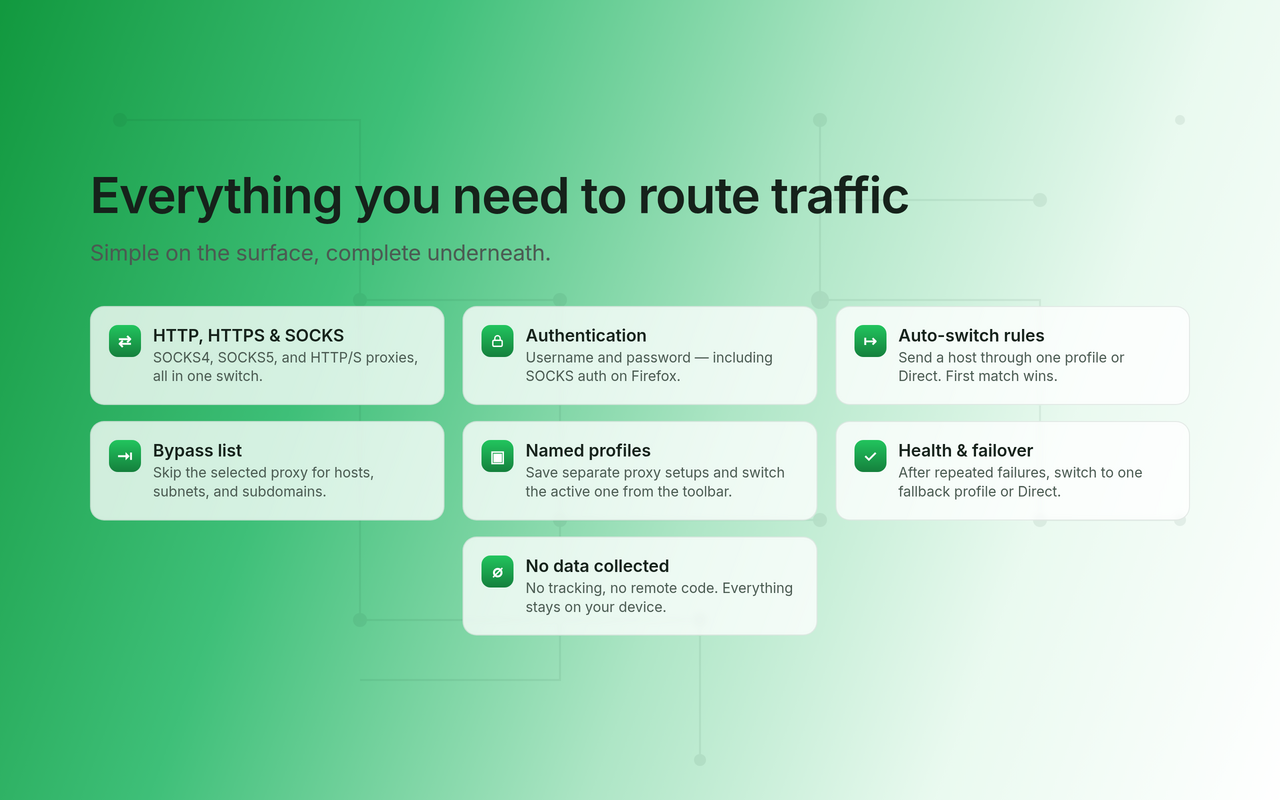
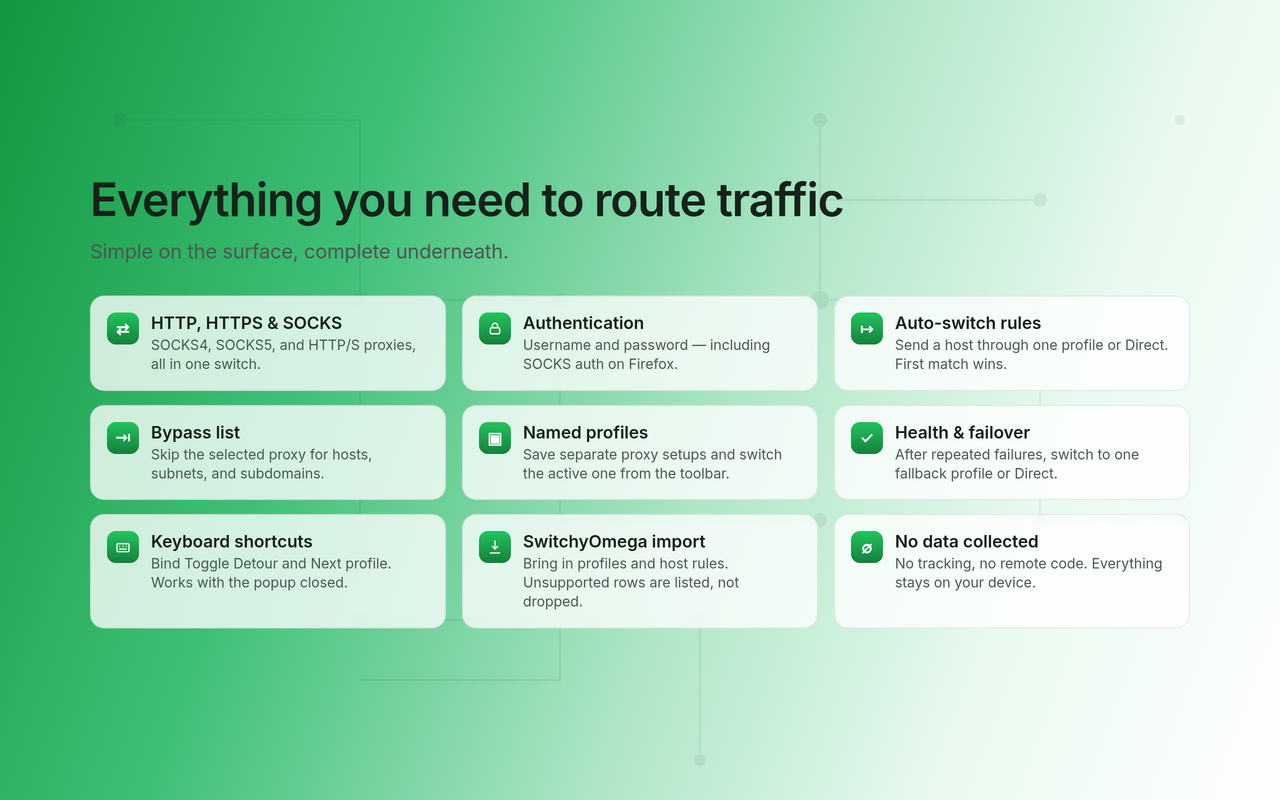
docs(store): listing and screenshots for 1.7.0 (#61)
* docs(store): describe 1.7.0 shortcuts and SwitchyOmega import

Update listing copy and the features screenshot template so store
dashboards can mention keyboard shortcuts and SwitchyOmega import.
Leave the 129-character CWS short summary unchanged.

* docs(store): regenerate 1.7.0 features screenshot PNGs

Render the updated 3x3 features grid to opaque 24-bit PNG (1280x800,
no alpha) for CWS and copy the same file to AMO.

---------

Changed region(s): [[0.0625, 0.2188, 0.9062, 0.8125]]

diff --git a/store/assets/screenshot-3-features-1280x800.html b/store/assets/screenshot-3-features-1280x800.html
@@ -13,22 +13,22 @@
         justify-content: center;
         padding: 0 90px;
       }
-      .cap .big { font-size: 50px; letter-spacing: -0.02em; display: block; }
-      .cap .lead { font-size: 22px; margin-top: 14px; }
+      .cap .big { font-size: 46px; letter-spacing: -0.02em; display: block; }
+      .cap .lead { font-size: 20px; margin-top: 12px; }
       .grid {
         position: relative;
         z-index: 2;
-        margin-top: 40px;
+        margin-top: 32px;
         display: grid;
         grid-template-columns: 1fr 1fr 1fr;
-        gap: 16px 18px;
+        gap: 14px 16px;
         max-width: 1100px;
       }
       .feat {
         display: flex;
         align-items: flex-start;
         gap: 12px;
-        padding: 18px 18px;
+        padding: 16px 16px;
         background: rgba(255, 255, 255, 0.78);
         border: 1px solid rgba(15, 61, 36, 0.1);
         border-radius: 14px;
@@ -83,7 +83,15 @@
           <span class="ic">✓</span>
           <div><h3>Health &amp; failover</h3><p>After repeated failures, switch to one fallback profile or Direct.</p></div>
         </div>
-        <div class="feat" style="grid-column: 2">
+        <div class="feat">
+          <span class="ic"><svg viewBox="0 0 24 24" width="16" height="16" fill="none" stroke="#fff" stroke-width="2" stroke-linecap="round" stroke-linejoin="round"><rect x="3" y="7" width="18" height="12" rx="2"/><path d="M7 11h.01M12 11h.01M17 11h.01M7 15h10"/></svg></span>
+          <div><h3>Keyboard shortcuts</h3><p>Bind Toggle Detour and Next profile. Works with the popup closed.</p></div>
+        </div>
+        <div class="feat">
+          <span class="ic"><svg viewBox="0 0 24 24" width="16" height="16" fill="none" stroke="#fff" stroke-width="2" stroke-linecap="round" stroke-linejoin="round"><path d="M12 3v12"/><path d="M8 11l4 4 4-4"/><path d="M5 21h14"/></svg></span>
+          <div><h3>SwitchyOmega import</h3><p>Bring in profiles and host rules. Unsupported rows are listed, not dropped.</p></div>
+        </div>
+        <div class="feat">
           <span class="ic">∅</span>
           <div><h3>No data collected</h3><p>No tracking, no remote code. Everything stays on your device.</p></div>
         </div>

diff --git a/store/listing.md b/store/listing.md
@@ -9,7 +9,8 @@ into the dashboard. Character limits are noted per field — stay within them.
 ## Shared positioning
 
 **One-liner:** A simple, intuitive proxy switcher — save profiles, add
-auto-switch rules, check proxy health, and switch from your toolbar.
+auto-switch rules, check proxy health, import SwitchyOmega backups, and switch
+from your toolbar or keyboard.
 
 **Tone:** plain, honest, privacy-first. No hype, no "best ever", no emoji in the
 description body.
@@ -24,6 +25,12 @@ Detour — Proxy Switcher
 ### Summary / short description (max 132)
 Switch HTTP, HTTPS, or SOCKS proxy profiles from your toolbar, with auto-switch
 rules, health checks, failover, auth, and bypass.
+
+The CWS short summary and the package `description` in `package.json` /
+`wxt.config.ts` are the same 129-character string. It already names the 1.6.0
+pillars and sits 3 characters under the limit — there is not enough room to
+add shortcuts or SwitchyOmega import without dropping a pillar. Leave it; the
+detailed description and screenshots carry 1.7.0.
 
 ### Detailed description (max 16,000)
 Detour is a simple, intuitive proxy switcher. Save configurations as named
@@ -48,9 +55,15 @@ Features:
 - Optional health checks while the proxy is active. After repeated failures,
   Detour switches to one chosen fallback profile, or Direct if the fallback is
   unavailable.
+- Keyboard shortcuts: bind Toggle Detour and Next profile in the browser's
+  shortcut page (linked from Settings). They work while the popup is closed.
+  Cycling profiles does not turn Detour on if you turned it off.
 - Dedicated settings page to create, rename, duplicate, or delete profiles,
-  with import/export of all profiles, rules, and health settings to a JSON file
-  for backup or moving between machines.
+  with export of all profiles, rules, and health settings to a JSON file for
+  backup or moving between machines. Import accepts a Detour backup or a
+  SwitchyOmega options JSON file: named HTTP, HTTPS, and SOCKS profiles and
+  compatible host rules are mapped; unsupported rows (PAC, regex, per-protocol
+  proxies) are listed after import instead of dropped quietly.
 - An ON badge on the toolbar icon shows at a glance when the proxy is active.
 
 Privacy:
@@ -74,8 +87,8 @@ Detour — Proxy Switcher
 
 ### Summary (max 250)
 A simple, intuitive proxy switcher. Save and switch HTTP, HTTPS, or SOCKS
-profiles from your toolbar — with authentication (including SOCKS), auto-switch
-rules, proxy health checks and failover, a bypass list, and import/export. No
+profiles from your toolbar or keyboard — with authentication (including SOCKS),
+auto-switch rules, health checks, failover, bypass, and SwitchyOmega import. No
 data collection.
 
 ### Description
@@ -102,9 +115,15 @@ Features:
 - Optional health checks while the proxy is active. After repeated failures,
   Detour switches to one chosen fallback profile, or Direct if the fallback is
   unavailable.
+- Keyboard shortcuts: bind Toggle Detour and Next profile in the browser's
+  shortcut page (linked from Settings). They work while the popup is closed.
+  Cycling profiles does not turn Detour on if you turned it off.
 - Dedicated settings page to create, rename, duplicate, or delete profiles,
-  with import/export of all profiles, rules, and health settings to a JSON file
-  for backup or moving between machines.
+  with export of all profiles, rules, and health settings to a JSON file for
+  backup or moving between machines. Import accepts a Detour backup or a
+  SwitchyOmega options JSON file: named HTTP, HTTPS, and SOCKS profiles and
+  compatible host rules are mapped; unsupported rows (PAC, regex, per-protocol
+  proxies) are listed after import instead of dropped quietly.
 - An ON badge on the toolbar icon shows at a glance when the proxy is active.
 
 Privacy:
@@ -119,7 +138,8 @@ never sent to us or anyone else. Detour is open source.
 2. Configure automatic health checks and a fallback, plus host rules that send
    traffic through a chosen profile or Direct.
 3. HTTP, HTTPS, and SOCKS support, authentication, named profiles, auto-switch
-   rules, health checks and failover, bypass lists, and no data collection.
+   rules, health checks and failover, keyboard shortcuts, SwitchyOmega import,
+   bypass lists, and no data collection.
 
 ### Categories
 Privacy & Security / Other
